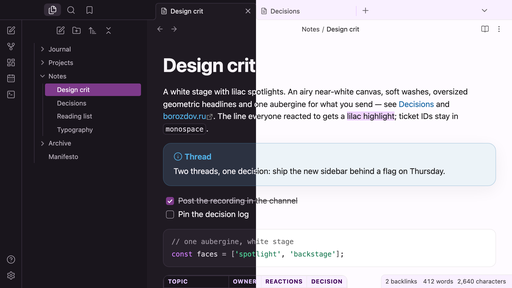
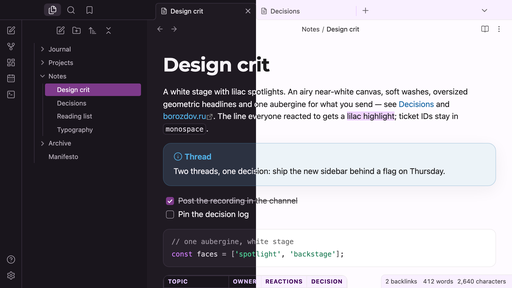
fix: 1.0.1, headline font through Obsidian's own variables

Changed region(s): [[0.3125, 0.1875, 0.5312, 0.2812]]

diff --git a/theme.css b/theme.css
@@ -170,6 +170,8 @@ body {
     ui-monospace, "Menlo", "Consolas", monospace;
   --font-display: "Montserrat", -apple-system, "BlinkMacSystemFont",
     "Segoe UI", "Roboto", sans-serif;
+  --inline-title-font: var(--font-display);
+  --h1-font: var(--font-display); --h2-font: var(--font-display); --h3-font: var(--font-display);
   --line-height-normal: 1.55;
   --bold-weight: 600;
   --radius-s: 4px;
